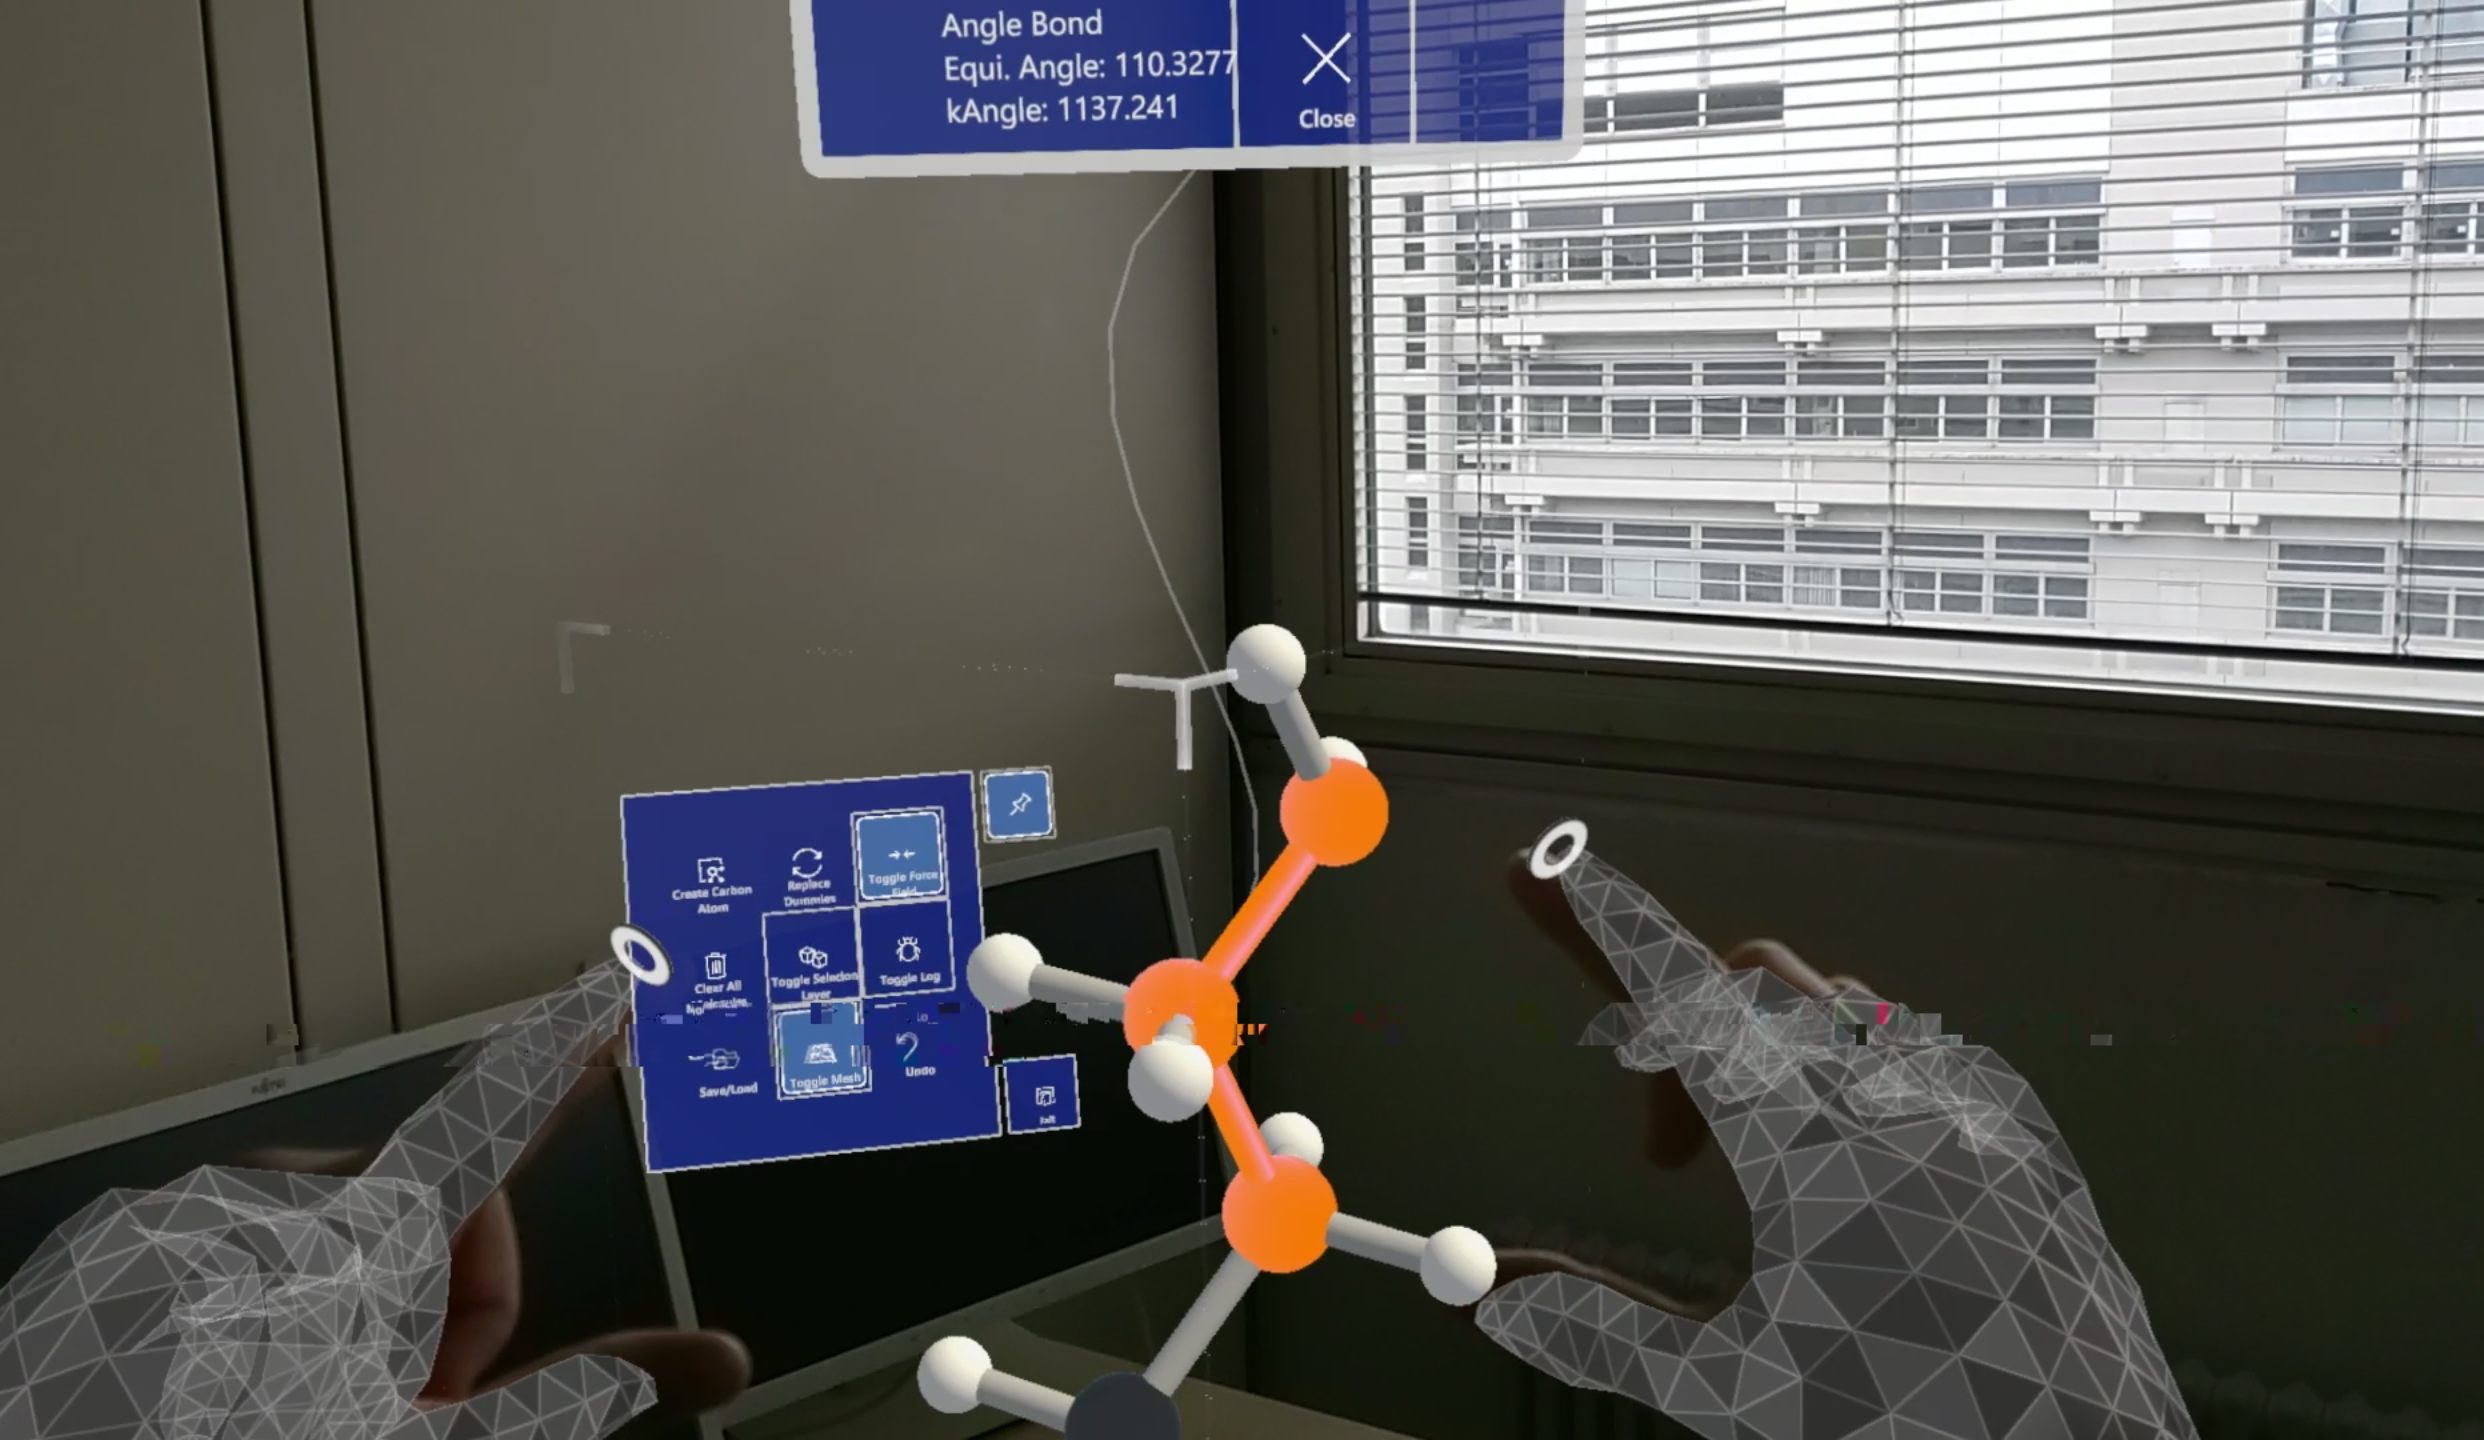
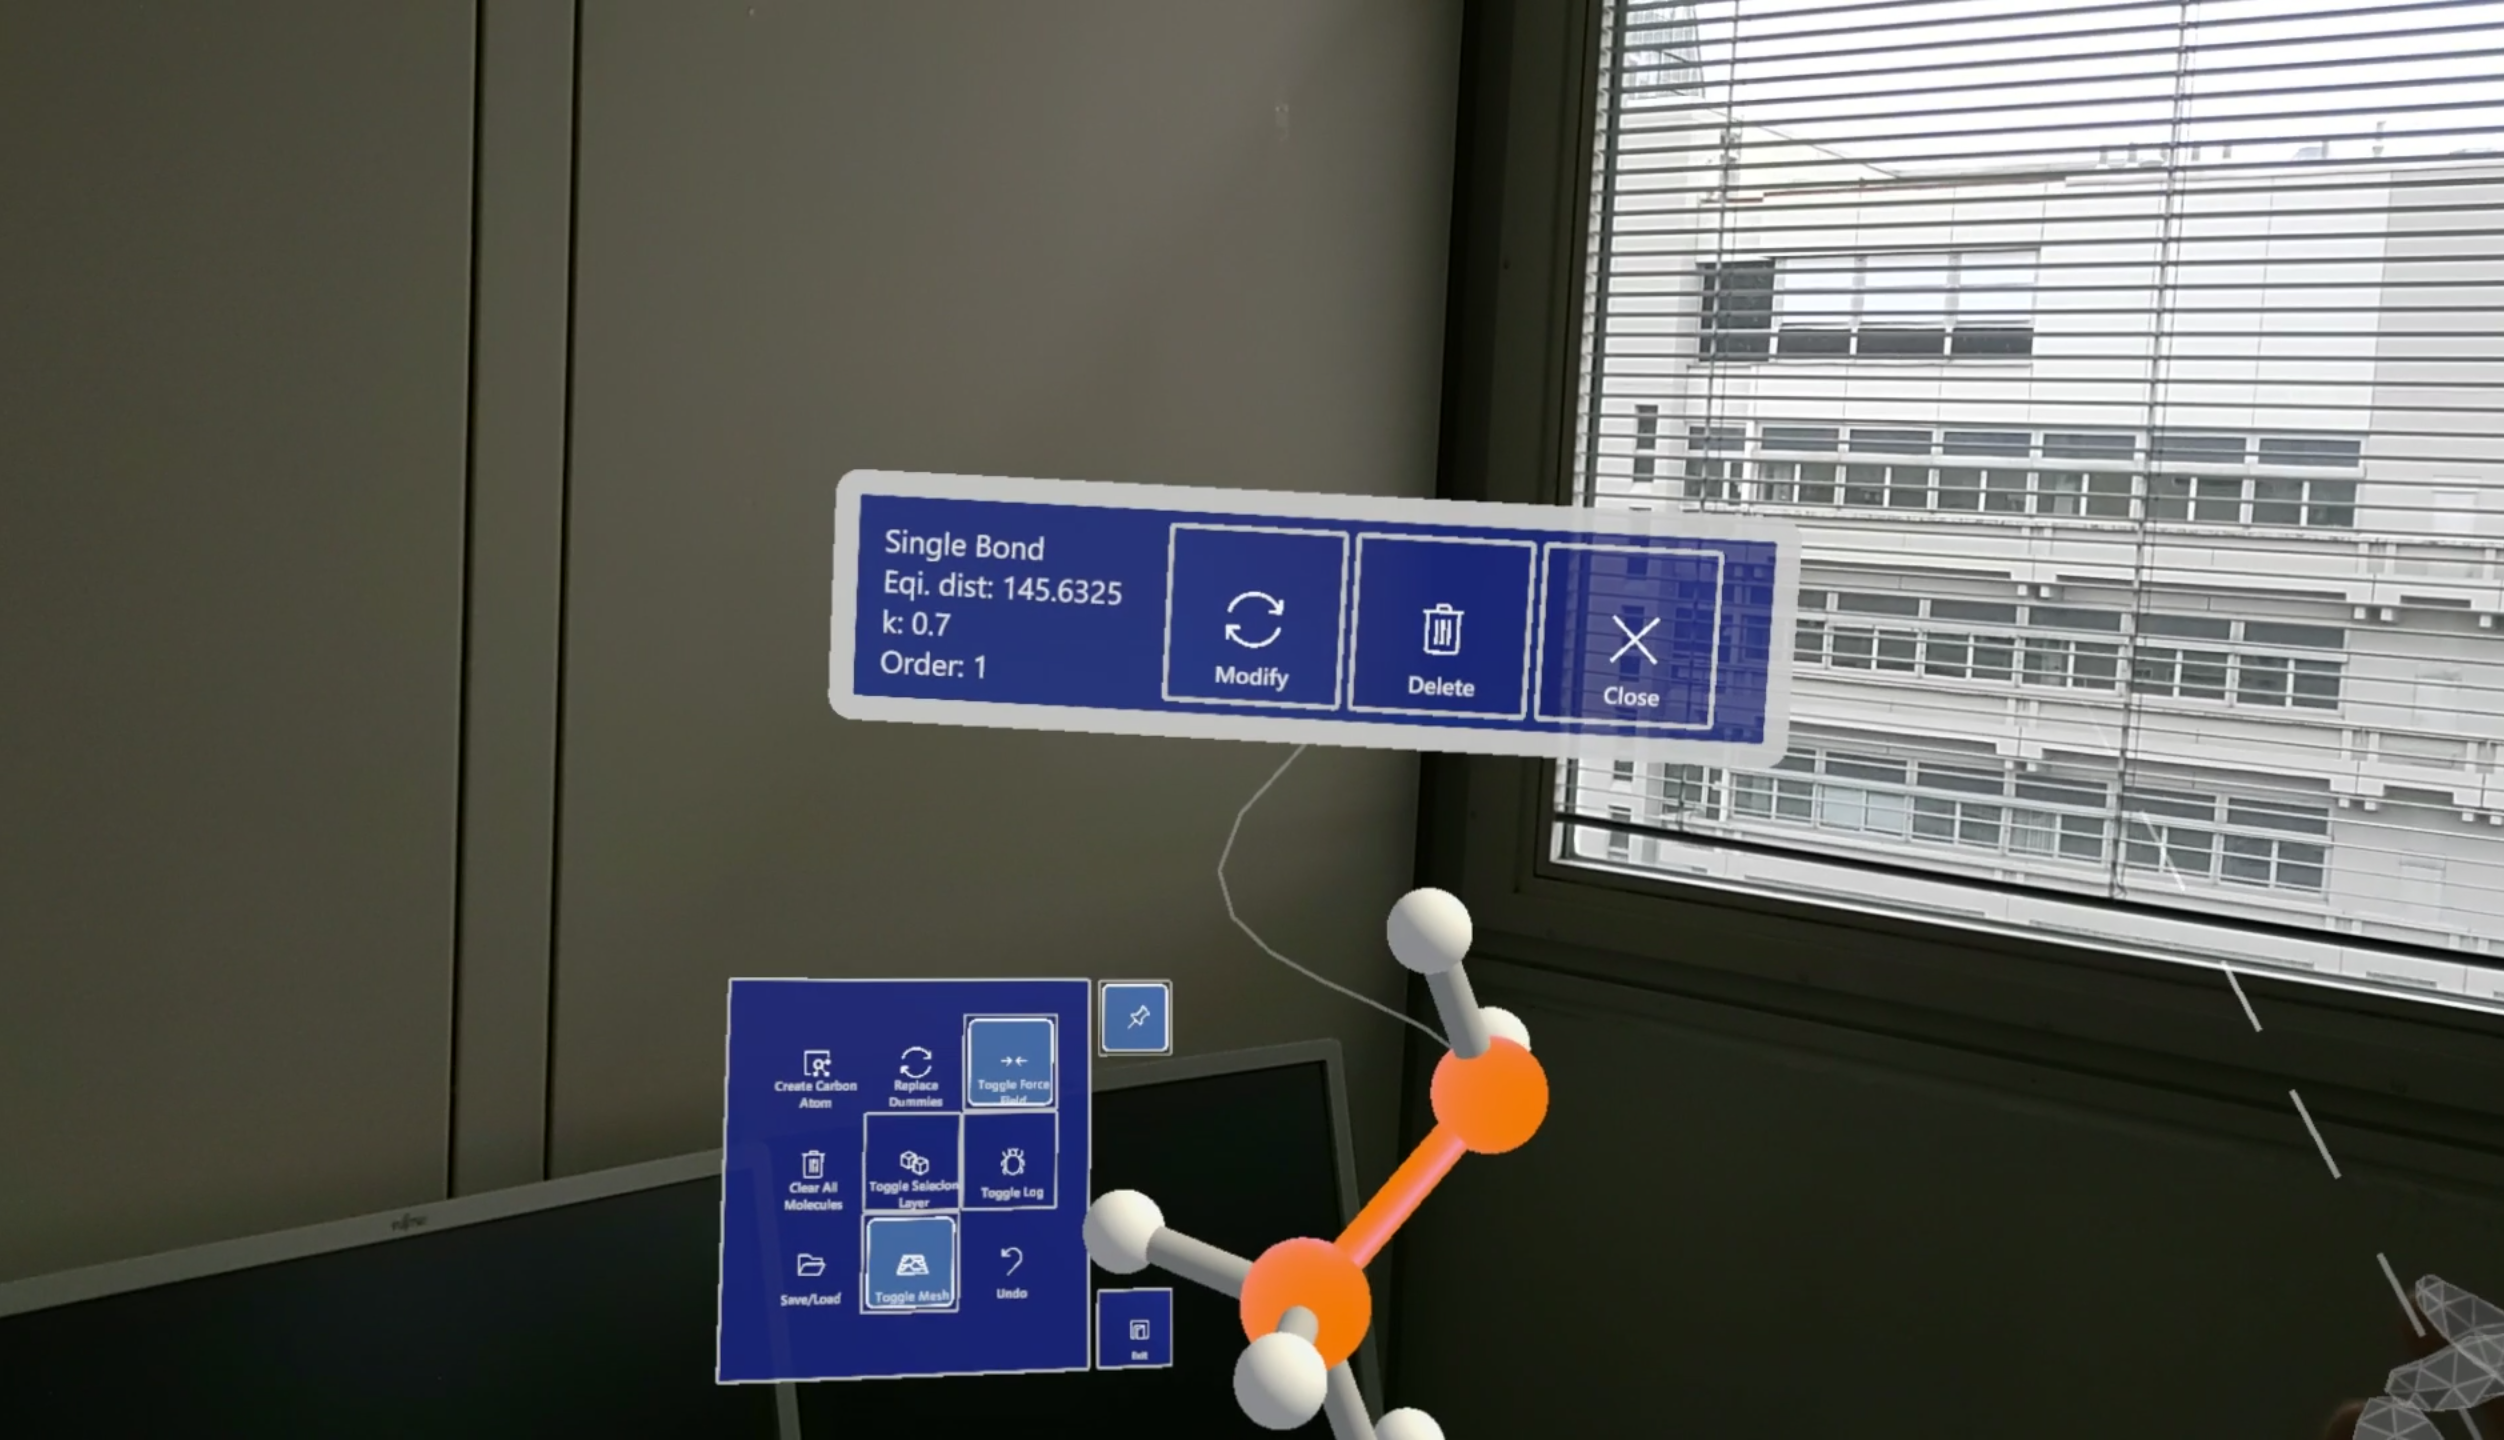
added picture to carousel

diff --git a/src/routes/images.js b/src/routes/images.js
@@ -7,8 +7,14 @@ export const images = [
 },
 {
     id: 1,
-    name: "Different View",
+    name: "Older Version",
     imgurl: "/images/pic1.png",
+    attribution: "",
+},
+{
+    id: 2,
+    name: "Different View",
+    imgurl: "/images/pic2.png",
     attribution: "",
 }
 ];
